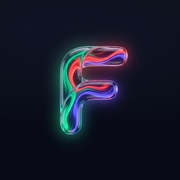
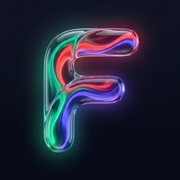
Ajustes visuales

diff --git a/src/App.tsx b/src/App.tsx
@@ -1,5 +1,5 @@
 import { useState, useEffect, lazy, Suspense } from 'react';
-import { FastForward, Loader2, Cloud, Lock, ShieldCheck, User } from 'lucide-react';
+import { FastForward, Loader2, Lock, ShieldCheck, User } from 'lucide-react';
 import { useFinanceStore } from './store/useFinanceStore';
 import { useAuth } from './context/AuthContext';
 import { useSecurityLock } from './hooks/useSecurityLock';
@@ -136,14 +136,6 @@ export default function App() {
             alt="Fluo"
             className="h-9 sm:h-10 w-auto object-contain filter drop-shadow-[0_2px_14px_rgba(99,102,241,0.35)] select-none"
           />
-          {user && (
-            <div
-              className="flex items-center text-indigo-400/80 -ml-0.5"
-              title="Sincronizado con Supabase Cloud"
-            >
-              <Cloud className="h-4 w-4" />
-            </div>
-          )}
         </div>
 
         {/* Header Right Actions */}
@@ -159,25 +151,27 @@ export default function App() {
             </div>
           )}
 
-          {/* Time & Recurrences Simulator */}
-          <button
-            type="button"
-            onClick={() => setIsSimulatorOpen(true)}
-            className={`flex items-center gap-1 px-2.5 py-1 rounded-full text-xs font-medium border transition-all cursor-pointer backdrop-blur-md ${
-              simulatedTimeOffsetDays > 0
-                ? 'bg-amber-500/20 hover:bg-amber-500/30 text-amber-300 border-amber-500/40 shadow-[0_0_10px_rgba(245,158,11,0.25)]'
-                : 'bg-indigo-500/15 hover:bg-indigo-500/25 text-indigo-300 border-indigo-500/30'
-            }`}
-            title="Simulador de Tiempo y Recurrencias"
-          >
-            <FastForward className="h-3 w-3" />
-            <span>Simular</span>
-            {simulatedTimeOffsetDays > 0 && (
-              <span className="text-[10px] font-bold text-amber-200">
-                +{simulatedTimeOffsetDays}d
-              </span>
-            )}
-          </button>
+          {/* Time & Recurrences Simulator (Only in Demo Mode / Not logged in) */}
+          {!user && (
+            <button
+              type="button"
+              onClick={() => setIsSimulatorOpen(true)}
+              className={`flex items-center gap-1 px-2.5 py-1 rounded-full text-xs font-medium border transition-all cursor-pointer backdrop-blur-md ${
+                simulatedTimeOffsetDays > 0
+                  ? 'bg-amber-500/20 hover:bg-amber-500/30 text-amber-300 border-amber-500/40 shadow-[0_0_10px_rgba(245,158,11,0.25)]'
+                  : 'bg-indigo-500/15 hover:bg-indigo-500/25 text-indigo-300 border-indigo-500/30'
+              }`}
+              title="Simulador de Tiempo y Recurrencias"
+            >
+              <FastForward className="h-3 w-3" />
+              <span>Simular</span>
+              {simulatedTimeOffsetDays > 0 && (
+                <span className="text-[10px] font-bold text-amber-200">
+                  +{simulatedTimeOffsetDays}d
+                </span>
+              )}
+            </button>
+          )}
 
           {/* Security PIN / App Lock */}
           <button
@@ -204,7 +198,7 @@ export default function App() {
             )}
           </button>
 
-          {/* Floating Liquid Glass Profile Avatar Button (Replaces raw email text) */}
+          {/* Floating Liquid Glass Profile Avatar Button */}
           <button
             type="button"
             onClick={() => setIsProfileModalOpen(true)}
@@ -213,11 +207,11 @@ export default function App() {
             aria-label="Perfil y Ajustes de Cuenta"
           >
             {user?.email ? (
-              <span className="text-xs font-bold text-white group-hover:text-indigo-300 transition-colors uppercase">
+              <span className="text-base sm:text-lg font-black text-white group-hover:text-indigo-200 transition-colors uppercase leading-none">
                 {user.email.charAt(0)}
               </span>
             ) : (
-              <User className="h-4 w-4 text-slate-300 group-hover:text-white transition-colors" />
+              <User className="h-5 w-5 text-slate-300 group-hover:text-white transition-colors" />
             )}
             {/* Status dot indicator */}
             <span

diff --git a/src/components/home/HeroBalance.tsx b/src/components/home/HeroBalance.tsx
@@ -3,7 +3,6 @@ import {
   Eye,
   EyeOff,
   RefreshCw,
-  Sparkles,
   ArrowUpRight,
   ArrowDownRight,
   TrendingUp,
@@ -247,10 +246,7 @@ export const HeroBalance: React.FC<HeroBalanceProps> = ({
             </div>
 
             <div className={`flex flex-col justify-center rounded-2xl ${theme.subCardBg} px-3 py-2`}>
-              <div className="flex items-center gap-1">
-                <Sparkles className="h-3 w-3 text-indigo-400 flex-shrink-0" />
-                <span className="text-[11px] font-medium text-slate-400">Rendimiento</span>
-              </div>
+              <span className="text-[11px] font-medium text-slate-400">Rendimiento</span>
               <span
                 className={`mt-0.5 text-xs font-bold truncate ${
                   summary.unrealizedPnL >= 0 ? 'text-indigo-300' : 'text-rose-400'

diff --git a/docs/wiki/04-roadmap-status.md b/docs/wiki/04-roadmap-status.md
@@ -381,8 +381,17 @@ Control de hitos, módulos completados, en desarrollo y planificados para la apl
   - **Gestión de PIN & Bóveda**: Flujo de activación, cambio de PIN de 4 dígitos validado con SHA-256 (`changePin`) y opción de desactivación (`removePin`).
   - **Toggle Biométrico**: Conmutador estilo iOS para activar/desactivar WebAuthn (`toggleBiometrics`).
   - **Cambio de Contraseña**: Integración nativa con `supabase.auth.updateUser({ password })` con alternador de visibilidad (`Eye`/`EyeOff`) y alertas translúcidas.
-  - **Zona de Peligro & GDPR**: Modal de doble confirmación requiriendo confirmación textual `ELIMINAR` para ejecutar borrado en cascada en la base de datos (`delete_user_account`), purga de almacenamiento local (`purgeUserData`) y cierre seguro de sesión.
-- **Validación de Calidad**: `npx tsc -b` (0 errores), `npm test` (23/23 tests pasando) y `npx vite build` exitoso (548ms).
+### v0.5.18 (Ajustes Ergonómicos de Cabecera, Balance e Isotipo Móvil PWA)
+- **Isotipo PWA & App Icons con Letra 'F' Optimizada**:
+  - Re-encuadre técnico de `public/icon-512.jpg`, `public/icon-192.jpg` y `public/icon-180.jpg` mediante pipeline de interpolación bicúbica de alta precisión.
+  - La letra `F` tubular Liquid Glass incrementa su escala visual ~35%, eliminando el exceso de márgenes negros periféricos y manteniendo las zonas de seguridad (safe bounds) para squircles de iOS y máscaras adaptativas de Android.
+- **Depuración de la Cabecera Superior ([`App.tsx`](file:///c:/Users/santi/Documents/UNI/Fluo/src/App.tsx))**:
+  - Eliminado el icono estático de la nube (`Cloud`).
+  - El botón `Simular` queda condicionado estrictamente al modo Demo (`!user`), ocultándose automáticamente para usuarios con sesión activa donde la recurrencia corre de forma autónoma.
+  - Avatar de perfil con monograma ampliado a `text-base sm:text-lg font-black` (e icono `User` a 20px) para una presencia más nítida y legible.
+- **Simetría y Limpieza en Tarjeta de Balance ([`HeroBalance.tsx`](file:///c:/Users/santi/Documents/UNI/Fluo/src/components/home/HeroBalance.tsx))**:
+  - Eliminado el icono de estrellas (`Sparkles`) previo a la palabra "Rendimiento", logrando una lectura limpia, equilibrada y perfectamente simétrica con la celda de "Tasa de ahorro".
+- **Validación de Calidad**: `npx tsc -b` (0 errores), `npm test` (23/23 tests pasando) y `npx vite build` exitoso.
 
 ---
 

diff --git a/docs/wiki/03-design-system.md b/docs/wiki/03-design-system.md
@@ -126,7 +126,14 @@ Una superficie de cristal legítima en Fluo se compone de 4 capas ópticas:
 ### 10. Sub-Métricas de Balance (`HeroBalance`)
 - **Cuadrícula Aislada de 2 Columnas**: `grid grid-cols-2 gap-2 text-xs` sobre `border-t border-white/10`.
 - **Celdas Vítreas Independientes**: `flex flex-col justify-center rounded-2xl bg-white/[0.04] border border-white/10 px-3 py-2`.
-- **Ventaja Ergonómica**: Erradica el quiebre de palabras ("Tasa de ahorro") y asegura márgenes amplios y lectura limpia de la Tasa de Ahorro y el Rendimiento latente sin solapamientos.
+- **Pureza Visual Simétrica**: Se erradican iconos decorativos redundantes (como el glifo `Sparkles` previo a "Rendimiento"), garantizando simetría visual pura con la celda de "Tasa de ahorro", eliminando colisiones y saltos de línea inoportunos.
+
+### 10.1. Avatar de Perfil y Cabecera Minimalista (`App.tsx`)
+- **Avatar Circular Ampliado**: Botón táctil `w-10 h-10` con sustrato Liquid Glass `bg-white/[0.08] hover:bg-white/[0.12] border border-white/20 rounded-full`.
+- **Monograma de Alta Legibilidad**: Inicial del usuario renderizada en tipografía destacada `text-base sm:text-lg font-black text-white leading-none tracking-tight` (icono `User` fallback ampliado a `h-5 w-5`).
+- **Despeje de Cabecera**:
+  - Eliminación de iconos de estado superfluos (como el icono de nube `Cloud`), preservando el indicador de sincronización activa exclusivamente en momentos de mutación en red.
+  - Ocultación del botón de depuración `Simular` en cuentas con sesión iniciada (manteniéndolo activo únicamente en modo Demo no autenticado).
 
 ### 11. Tarjeta de Transacción Reciente (`RecentTransactionsList`)
 - **Estructura en Doble Eje Paralelo**:
